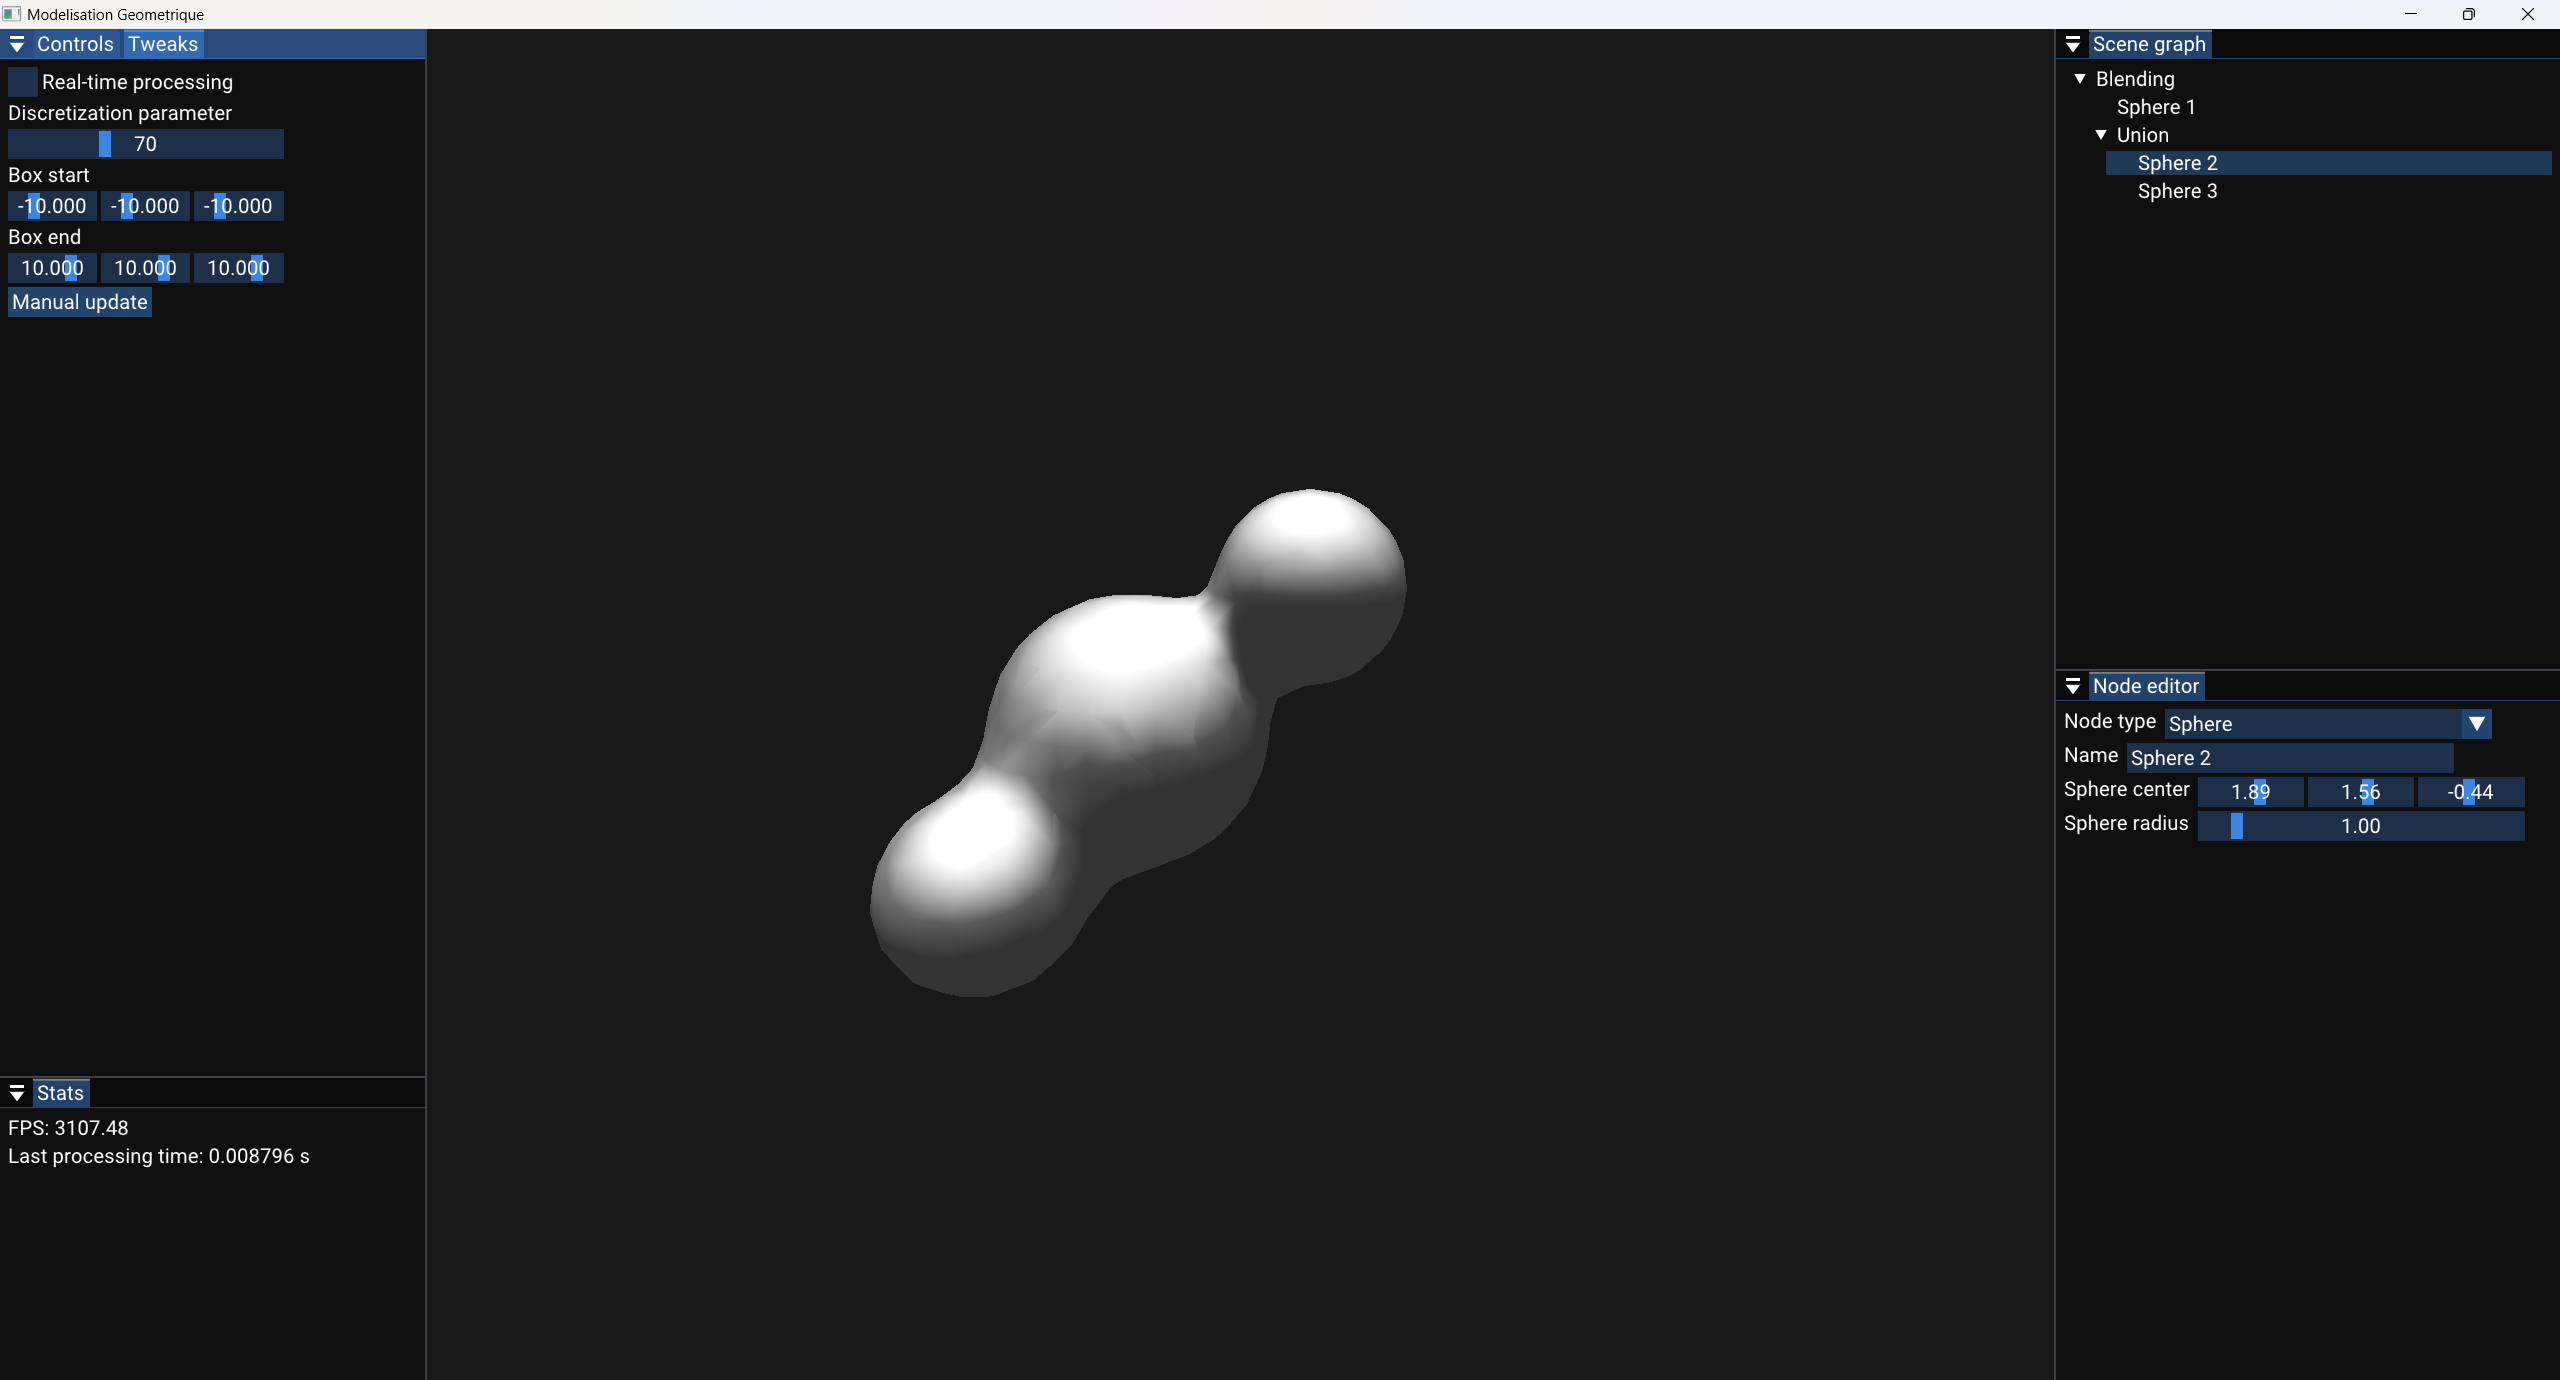
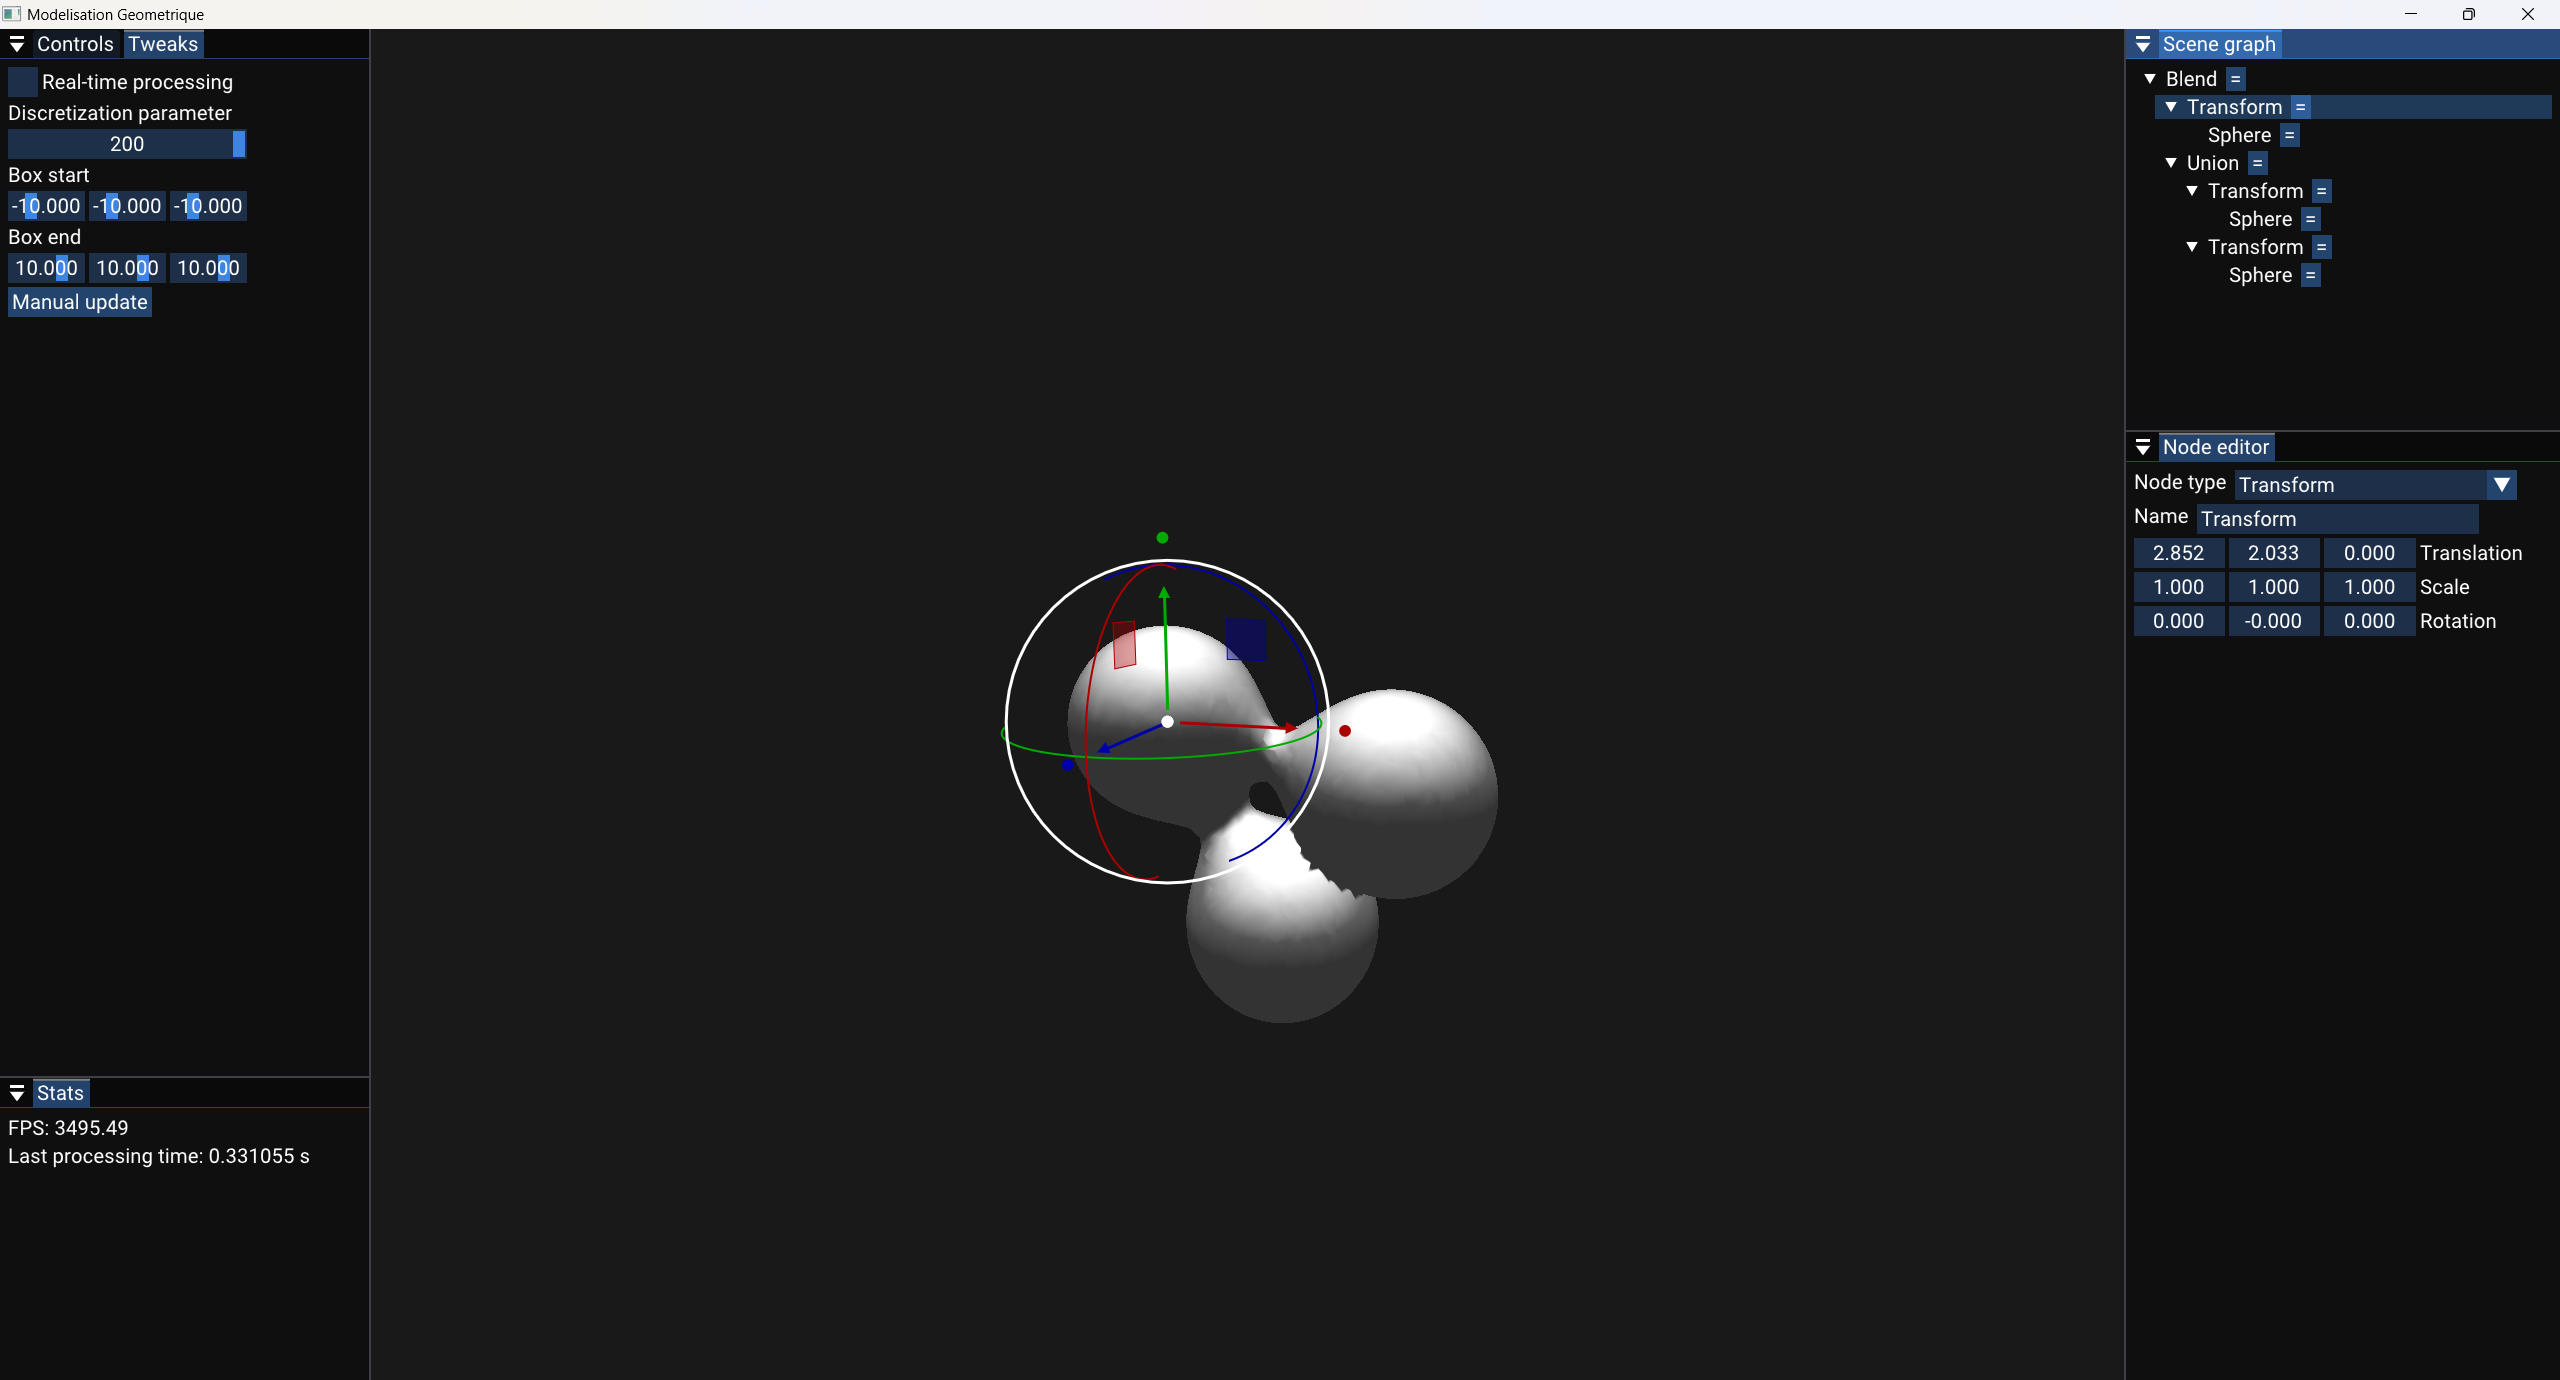
Added ImGuizmo. Gizmo works for transform editor.

diff --git a/TP/src/SceneGraph/NodeEditor/TransformOperatorEditor.cpp b/TP/src/SceneGraph/NodeEditor/TransformOperatorEditor.cpp
@@ -1,9 +1,16 @@
 #include "SceneGraph/NodeEditor/TransformOperatorEditor.h"
 
+#include <Vroom/Core/Application.h>
+#include <Vroom/Core/GameLayer.h>
+#include <Vroom/Scene/Scene.h>
+
 #include "imgui.h"
+#include "ImGuizmo.h"
+
 #include <glm/gtc/constants.hpp>
 
 #include "Implicits/Operators/TransformOperator.h"
+#include "SceneGraph/SceneNode.h"
 
 TransformOperatorEditor::TransformOperatorEditor(SceneNode* node, TransformOperator* imp)
     : NodeEditor(node), m_Implicit(imp)
@@ -22,4 +29,28 @@ void TransformOperatorEditor::onImgui_Impl()
     glm::vec3 rotation = m_Implicit->getRotation();
     if (ImGui::DragFloat3("Rotation", &rotation[0], 0.01f, 0.f, glm::two_pi<float>()))
         m_Implicit->setRotation(rotation);
+    
+    ImGuizmo::SetOrthographic(false);
+    ImGuizmo::SetDrawlist(ImGui::GetBackgroundDrawList()); 
+    auto& io = ImGui::GetIO();
+    ImGuizmo::SetRect(0, 0, io.DisplaySize.x, io.DisplaySize.y);
+
+    glm::mat4 transform = m_Implicit->getTransform();
+    const auto& view = vrm::Application::Get().getGameLayer().getScene().getCamera().getView();;
+    const auto& projection = vrm::Application::Get().getGameLayer().getScene().getCamera().getProjection();
+
+    if (ImGuizmo::Manipulate(
+        &view[0][0],
+        &projection[0][0],
+        ImGuizmo::OPERATION::TRANSLATE | ImGuizmo::OPERATION::ROTATE | ImGuizmo::OPERATION::SCALE,
+        ImGuizmo::MODE::LOCAL,
+        &transform[0][0]
+    ))
+    {
+        ImGuizmo::DecomposeMatrixToComponents(&transform[0][0], &translation[0], &rotation[0], &scale[0]);
+        m_Implicit->setTranslation(translation);
+        m_Implicit->setRotation(glm::radians(rotation));
+        m_Implicit->setScale(scale);
+    }
+
 }

diff --git a/TP/src/MyScene.cpp b/TP/src/MyScene.cpp
@@ -13,6 +13,7 @@
 #include <glm/gtx/string_cast.hpp>
 
 #include "imgui.h"
+#include "ImGuizmo.h"
 
 #include "Implicits/Primitives/Sphere.h"
 #include "Implicits/Operators/TransformOperator.h"
@@ -44,7 +45,7 @@ MyScene::MyScene()
     gameLayer.getTrigger("MoveDown")
         .bindCallback([this](bool triggered) { upValue -= triggered ? 1.f : -1.f; });
     
-    gameLayer.getTrigger("MouseLeft")
+    gameLayer.getTrigger("MouseRight")
         .bindCallback([this](bool triggered) {
             if (!m_ControlsEnabled)
                 return;
@@ -121,6 +122,7 @@ void MyScene::onUpdate(float dt)
 
 void MyScene::onRender()
 {
+    ImGuizmo::BeginFrame();
     ImGui::PushFont(m_Font);
 
     onImGui();
@@ -149,7 +151,7 @@ void MyScene::onImGui()
     ImGui::DockSpaceOverViewport(0, ImGui::GetMainViewport(), ImGuiDockNodeFlags_PassthruCentralNode);
 
     ImGui::Begin("Controls");
-        ImGui::TextWrapped("While left clicking:");
+        ImGui::TextWrapped("While right clicking:");
         ImGui::TextWrapped("WASD to move the camera");
         ImGui::TextWrapped("Space to move up, Left Shift to move down");
         ImGui::Checkbox("Enable controls", &m_ControlsEnabled);

diff --git a/TP/src/TP.cpp b/TP/src/TP.cpp
@@ -27,8 +27,8 @@ int main(int argc, char** argv)
 		.bindInput(vrm::KeyCode::Space);
 	gameLayer.createTrigger("MoveDown")
 		.bindInput(vrm::KeyCode::LeftShift);
-	gameLayer.createTrigger("MouseLeft")
-		.bindInput(vrm::MouseCode::Left);
+	gameLayer.createTrigger("MouseRight")
+		.bindInput(vrm::MouseCode::Right);
 	
 	gameLayer.createTrigger("KeyLeft")
 		.bindInput(vrm::KeyCode::Left);

diff --git a/TP/src/SceneGraph/SceneNode.cpp b/TP/src/SceneGraph/SceneNode.cpp
@@ -34,7 +34,6 @@ void SceneNode::onImgui()
 
                 if (!srcNode->isAncestorOf(dstNode) && srcNode != dstNode)
                 {
-                    VRM_LOG_TRACE("test");
                     auto* srcParent = srcNode->getParent();
                     auto fieldSrc = srcParent->getFieldContaining(srcNode);
 

diff --git a/TP/include/Implicits/Operators/TransformOperator.h b/TP/include/Implicits/Operators/TransformOperator.h
@@ -25,6 +25,10 @@ public:
 
     inline const glm::vec3& getRotation() const { return m_Rotation; }
 
+    inline const glm::mat4& getTransformInv() const { return m_TransformInv; }
+
+    inline glm::mat4 getTransform() const { return glm::inverse(getTransformInv()); }
+
 private:
     void updateTransform() const;
 
